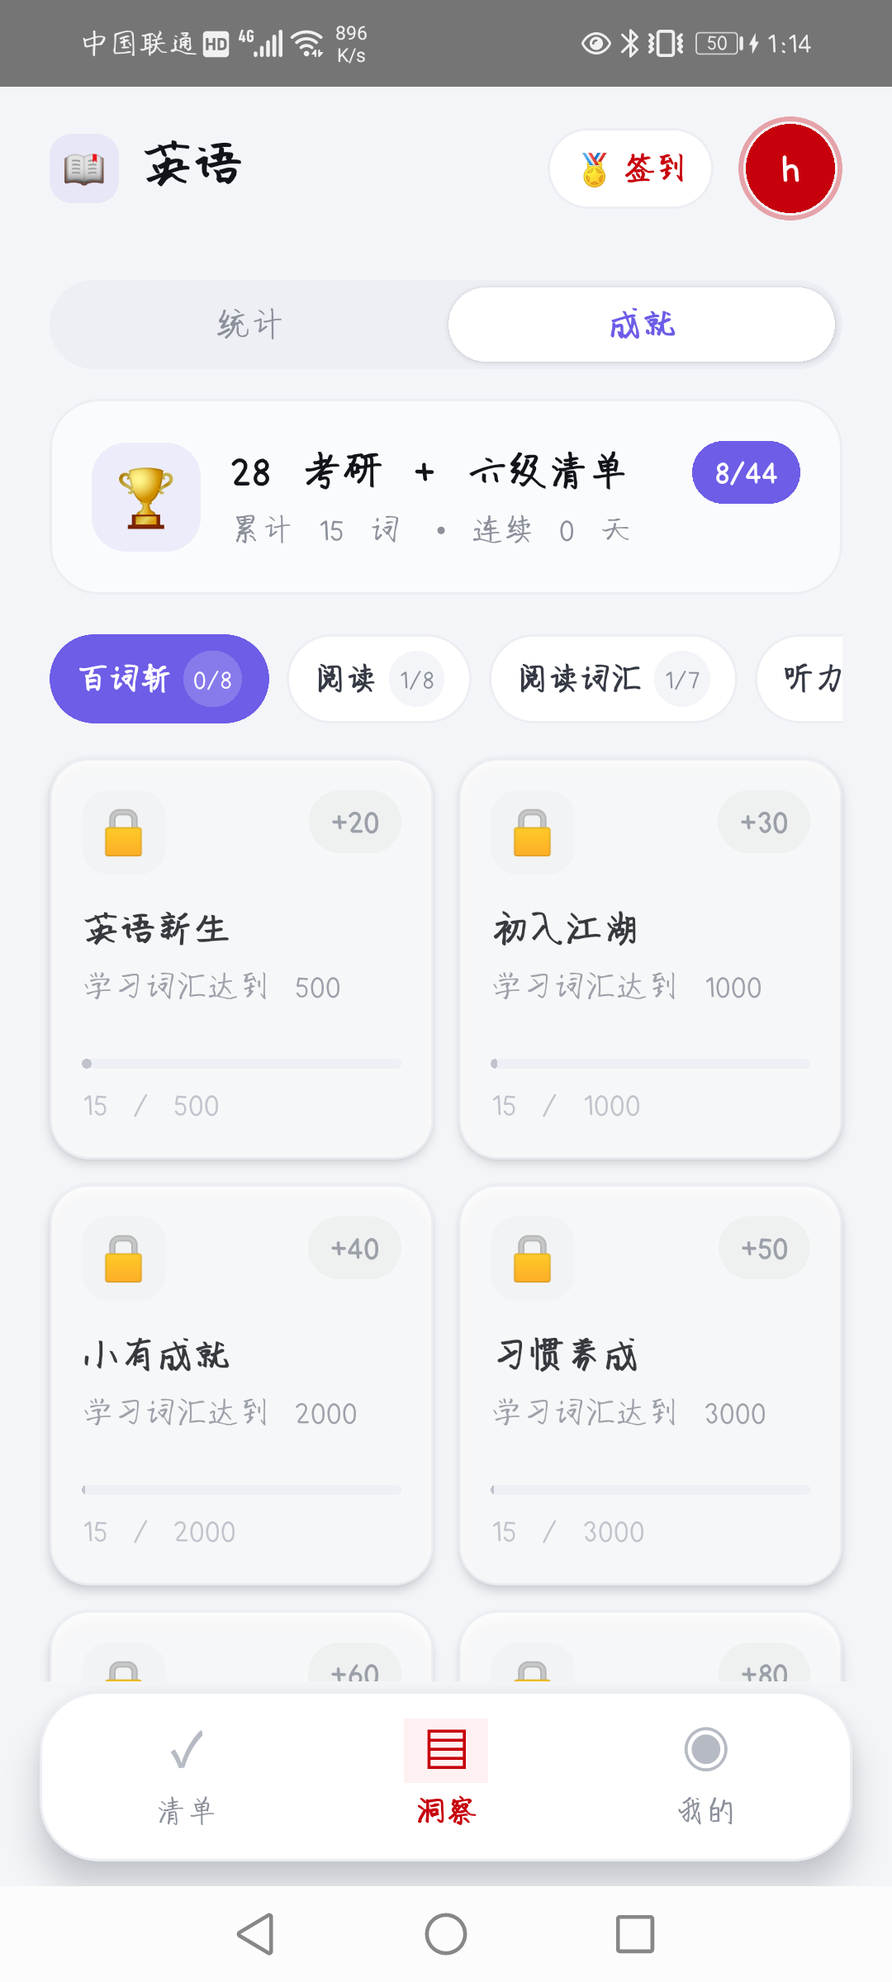
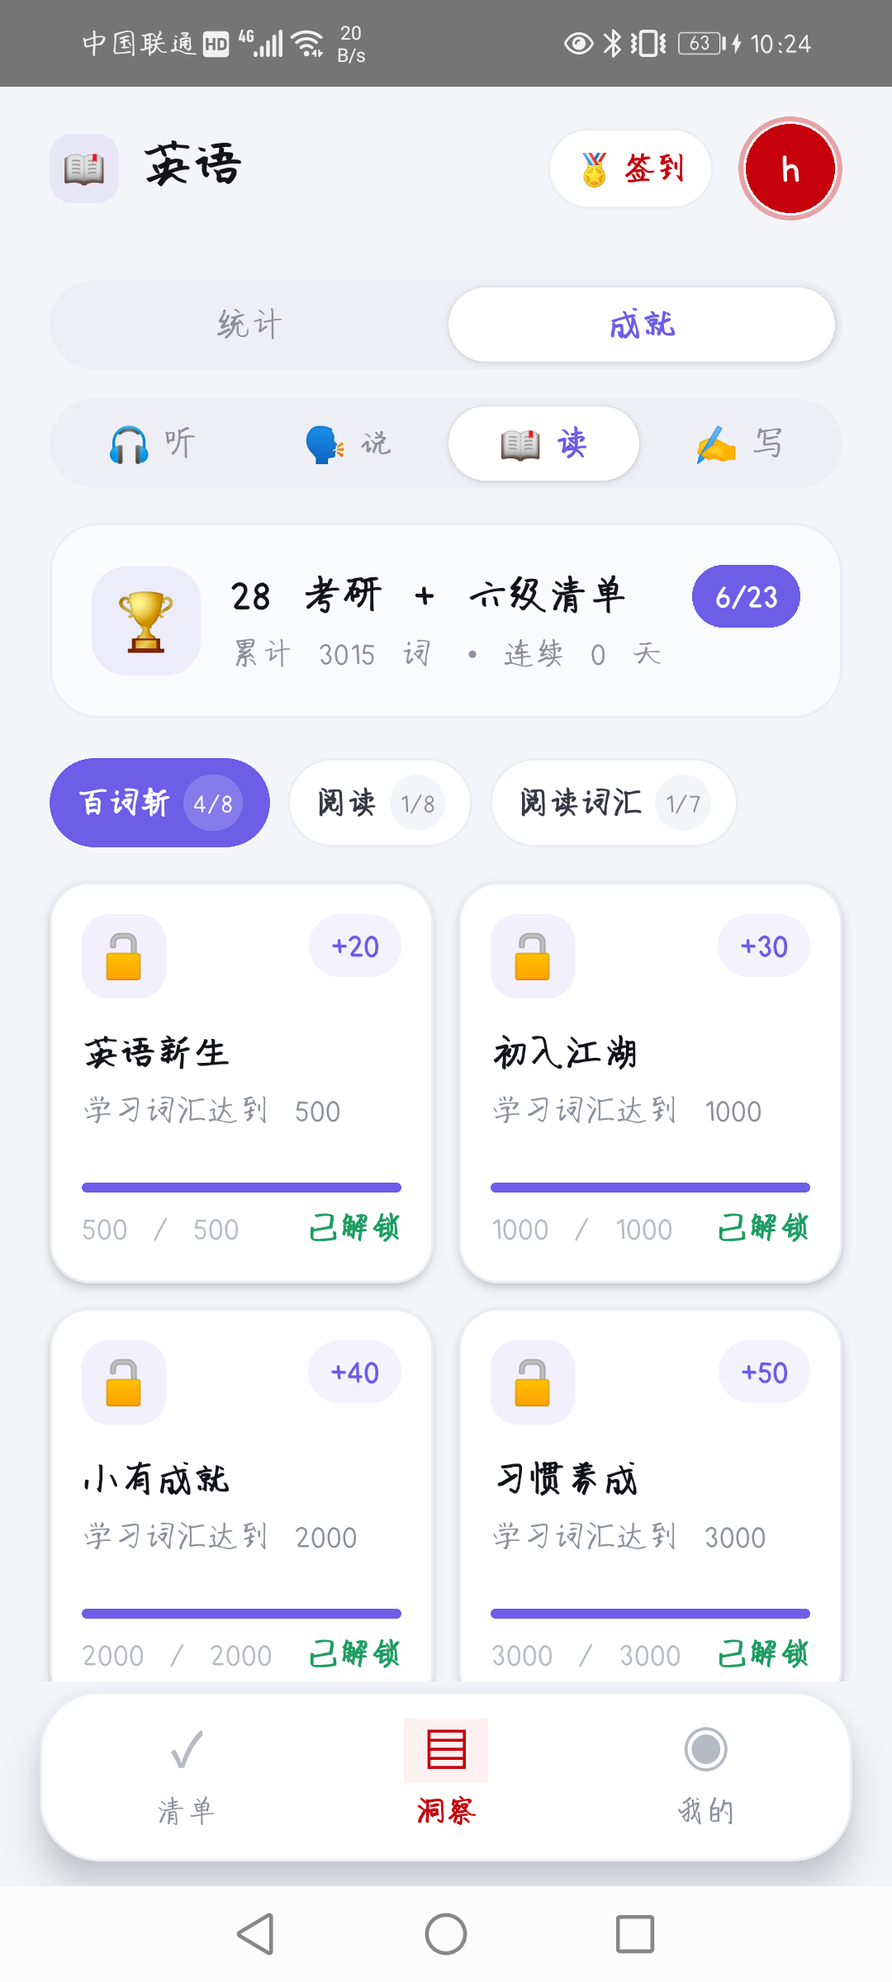
feat(english): 一级英语与听说读写二级结构
- 英语清单一级标题保留英语，二级改为听/说/读/写\n- 英语成就和进度管理回到洞察/成就\n- 每条清单独立进度与目标，目标可调\n- 清单页仅保留日常记录

diff --git a/app/src/model/englishChecklist.ts b/app/src/model/englishChecklist.ts
@@ -1,114 +1,118 @@
+export type EnglishSkill = 'listening' | 'speaking' | 'reading' | 'writing';
+
+export const ENGLISH_SKILLS: readonly { key: EnglishSkill; label: string; icon: string }[] = [
+  { key: 'listening', label: '听', icon: '🎧' },
+  { key: 'speaking', label: '说', icon: '🗣' },
+  { key: 'reading', label: '读', icon: '📖' },
+  { key: 'writing', label: '写', icon: '✍' }
+];
+
 export interface EnglishChecklistItem {
   id: string;
   name: string;
   desc: string;
   icon: string;
-  /** 目标值，单位由所属分组或条目决定 */
   need: number;
   points: number;
   unit?: string;
-  /** 初始进度（从旧清单迁移） */
   initial?: number;
 }
 
 export interface EnglishChecklistGroup {
   name: string;
+  skill: EnglishSkill;
   unit: string;
   initial: number;
   items: readonly EnglishChecklistItem[];
 }
 
+function group(
+  name: string,
+  skill: EnglishSkill,
+  unit: string,
+  initial: number,
+  items: readonly EnglishChecklistItem[]
+): EnglishChecklistGroup {
+  return { name, skill, unit, initial, items };
+}
+
 /**
  * 28 考研 + 六级清单（参考 english_01.md）。
- * 每个条目独立记录进度，不绑定固定字段或固定书目。
+ * 每个条目独立记录进度；分组只决定二级技能归属。
  */
 export const ENGLISH_CHECKLIST_GROUPS: readonly EnglishChecklistGroup[] = [
-  {
-    name: '百词斩',
-    unit: '词',
-    initial: 3000,
-    items: [
-      { id: 'words_500', name: '英语新生', desc: '学习词汇达到 500', icon: '🔓', need: 500, points: 20 },
-      { id: 'words_1000', name: '初入江湖', desc: '学习词汇达到 1000', icon: '🔓', need: 1000, points: 30 },
-      { id: 'words_2000', name: '小有成就', desc: '学习词汇达到 2000', icon: '🔓', need: 2000, points: 40 },
-      { id: 'words_3000', name: '习惯养成', desc: '学习词汇达到 3000', icon: '🔓', need: 3000, points: 50 },
-      { id: 'words_4000', name: '雷打不动', desc: '学习词汇达到 4000', icon: '🔓', need: 4000, points: 60 },
-      { id: 'words_5000', name: '单词大师', desc: '学习词汇达到 5000', icon: '🏅', need: 5000, points: 80 },
-      { id: 'words_6000', name: '单词宗师', desc: '学习词汇达到 6000', icon: '🏅', need: 6000, points: 100 },
-      { id: 'words_once', name: '过一遍', desc: '所有词汇学完一遍', icon: '1⃣', need: 6000, points: 120 }
-    ]
-  },
-  {
-    name: '阅读',
-    unit: '页',
-    initial: 10,
-    items: [
-      { id: 'read_10', name: '魔法世界', desc: "阅读累计达到 10 页", icon: '🔓', need: 10, points: 20 },
-      { id: 'read_50', name: '英语新生', desc: '阅读累计达到 50 页', icon: '🔓', need: 50, points: 25 },
-      { id: 'read_100', name: '初入江湖', desc: '阅读累计达到 100 页', icon: '🔓', need: 100, points: 30 },
-      { id: 'read_150', name: '小有成就', desc: '阅读累计达到 150 页', icon: '🔓', need: 150, points: 35 },
-      { id: 'read_200', name: '习惯养成', desc: '阅读累计达到 200 页', icon: '🔓', need: 200, points: 40 },
-      { id: 'read_250', name: '雷打不动', desc: '阅读累计达到 250 页', icon: '🔓', need: 250, points: 50 },
-      { id: 'read_300', name: '单词大师', desc: '阅读累计达到 300 页', icon: '🏅', need: 300, points: 60 },
-      { id: 'read_once', name: '读一遍', desc: '完成整本书第一遍', icon: '2⃣', need: 300, points: 80 }
-    ]
-  },
-  {
-    name: '阅读词汇',
-    unit: '词',
-    initial: 6156,
-    items: [
-      { id: 'read_vocab_6000', name: '破六千', desc: '阅读词汇量 ≥ 6000', icon: '🔓', need: 6000, points: 30 },
-      { id: 'read_vocab_6500', name: '六千五', desc: '阅读词汇量 ≥ 6500', icon: '🔓', need: 6500, points: 40 },
-      { id: 'read_vocab_7000', name: '七千关', desc: '阅读词汇量 ≥ 7000', icon: '🔓', need: 7000, points: 50 },
-      { id: 'read_vocab_7500', name: '七千五', desc: '阅读词汇量 ≥ 7500', icon: '🔓', need: 7500, points: 60 },
-      { id: 'read_vocab_8000', name: '八千斩', desc: '阅读词汇量 ≥ 8000', icon: '🏅', need: 8000, points: 80 },
-      { id: 'read_vocab_9000', name: '九千', desc: '阅读词汇量 ≥ 9000', icon: '👑', need: 9000, points: 100 },
-      { id: 'read_vocab_10000', name: '一万', desc: '阅读词汇量 ≥ 10000', icon: '💎', need: 10000, points: 120 }
-    ]
-  },
-  {
-    name: '听力词汇',
-    unit: '词',
-    initial: 5246,
-    items: [
-      { id: 'listen_vocab_4000', name: '四千', desc: '听力词汇量 ≥ 4000', icon: '🔓', need: 4000, points: 30 },
-      { id: 'listen_vocab_4500', name: '四千五', desc: '听力词汇量 ≥ 4500', icon: '🔓', need: 4500, points: 40 },
-      { id: 'listen_vocab_5000', name: '五千', desc: '听力词汇量 ≥ 5000', icon: '🔓', need: 5000, points: 50 },
-      { id: 'listen_vocab_5500', name: '五千五', desc: '听力词汇量 ≥ 5500', icon: '🔓', need: 5500, points: 60 },
-      { id: 'listen_vocab_6000', name: '六千', desc: '听力词汇量 ≥ 6000', icon: '🏅', need: 6000, points: 80 },
-      { id: 'listen_vocab_7000', name: '七千', desc: '听力词汇量 ≥ 7000', icon: '👑', need: 7000, points: 100 },
-      { id: 'listen_vocab_8000', name: '八千', desc: '听力词汇量 ≥ 8000', icon: '💎', need: 8000, points: 120 }
-    ]
-  },
-  {
-    name: '听力',
-    unit: '篇',
-    initial: 0,
-    items: [
-      { id: 'voa_1', name: '累计一章', desc: '每日英语听力 VOA 累计 1 章', icon: '🎧', need: 1, points: 20, initial: 2, unit: '章' },
-      { id: 'voa_5', name: '累计五章', desc: '每日英语听力 VOA 累计 5 章', icon: '🎧', need: 5, points: 40, initial: 2, unit: '章' },
-      { id: 'voa_10', name: '累计十章', desc: '每日英语听力 VOA 累计 10 章', icon: '🎧', need: 10, points: 60, initial: 2, unit: '章' },
-      { id: 'voa_15', name: '累计十五章', desc: '每日英语听力 VOA 累计 15 章', icon: '🎧', need: 15, points: 80, initial: 2, unit: '章' },
-      { id: 'cet6_1', name: '做完一篇', desc: '做完一篇六级听力', icon: '🎧', need: 1, points: 20 },
-      { id: 'cet6_3', name: '做完三篇', desc: '做完三篇六级听力', icon: '🎧', need: 3, points: 40 },
-      { id: 'cet6_5', name: '做完五篇', desc: '做完五篇六级听力', icon: '🎧', need: 5, points: 60 },
-      { id: 'intensive_1', name: '精听一篇', desc: '精听一篇六级听力', icon: '🎧', need: 1, points: 20 },
-      { id: 'intensive_3', name: '精听三篇', desc: '精听三篇六级听力', icon: '🎧', need: 3, points: 40 },
-      { id: 'intensive_5', name: '精听五篇', desc: '精听五篇六级听力', icon: '🎧', need: 5, points: 60 }
-    ]
-  },
-  {
-    name: '观影',
-    unit: '部',
-    initial: 4,
-    items: [
-      { id: 'movie_1', name: '累计看完 1 部', desc: '累计看完 1 部英文电影', icon: '🎬', need: 1, points: 20 },
-      { id: 'movie_3', name: '累计看完 3 部', desc: '累计看完 3 部英文电影', icon: '🎬', need: 3, points: 40 },
-      { id: 'movie_5', name: '累计看完 5 部', desc: '累计看完 5 部英文电影', icon: '🎬', need: 5, points: 60 },
-      { id: 'movie_10', name: '累计看完 10 部', desc: '累计看完 10 部英文电影', icon: '🎬', need: 10, points: 100 }
-    ]
-  }
+  group('百词斩', 'reading', '词', 3000, [
+    { id: 'words_500', name: '英语新生', desc: '学习词汇达到 500', icon: '🔓', need: 500, points: 20 },
+    { id: 'words_1000', name: '初入江湖', desc: '学习词汇达到 1000', icon: '🔓', need: 1000, points: 30 },
+    { id: 'words_2000', name: '小有成就', desc: '学习词汇达到 2000', icon: '🔓', need: 2000, points: 40 },
+    { id: 'words_3000', name: '习惯养成', desc: '学习词汇达到 3000', icon: '🔓', need: 3000, points: 50 },
+    { id: 'words_4000', name: '雷打不动', desc: '学习词汇达到 4000', icon: '🔓', need: 4000, points: 60 },
+    { id: 'words_5000', name: '单词大师', desc: '学习词汇达到 5000', icon: '🏅', need: 5000, points: 80 },
+    { id: 'words_6000', name: '单词宗师', desc: '学习词汇达到 6000', icon: '🏅', need: 6000, points: 100 },
+    { id: 'words_once', name: '过一遍', desc: '所有词汇学完一遍', icon: '1⃣', need: 6000, points: 120 }
+  ]),
+  group('阅读', 'reading', '页', 10, [
+    { id: 'read_10', name: '魔法世界', desc: '阅读累计达到 10 页', icon: '🔓', need: 10, points: 20 },
+    { id: 'read_50', name: '英语新生', desc: '阅读累计达到 50 页', icon: '🔓', need: 50, points: 25 },
+    { id: 'read_100', name: '初入江湖', desc: '阅读累计达到 100 页', icon: '🔓', need: 100, points: 30 },
+    { id: 'read_150', name: '小有成就', desc: '阅读累计达到 150 页', icon: '🔓', need: 150, points: 35 },
+    { id: 'read_200', name: '习惯养成', desc: '阅读累计达到 200 页', icon: '🔓', need: 200, points: 40 },
+    { id: 'read_250', name: '雷打不动', desc: '阅读累计达到 250 页', icon: '🔓', need: 250, points: 50 },
+    { id: 'read_300', name: '单词大师', desc: '阅读累计达到 300 页', icon: '🏅', need: 300, points: 60 },
+    { id: 'read_once', name: '读一遍', desc: '完成整本书第一遍', icon: '2⃣', need: 300, points: 80 }
+  ]),
+  group('阅读词汇', 'reading', '词', 6156, [
+    { id: 'read_vocab_6000', name: '破六千', desc: '阅读词汇量 ≥ 6000', icon: '🔓', need: 6000, points: 30 },
+    { id: 'read_vocab_6500', name: '六千五', desc: '阅读词汇量 ≥ 6500', icon: '🔓', need: 6500, points: 40 },
+    { id: 'read_vocab_7000', name: '七千关', desc: '阅读词汇量 ≥ 7000', icon: '🔓', need: 7000, points: 50 },
+    { id: 'read_vocab_7500', name: '七千五', desc: '阅读词汇量 ≥ 7500', icon: '🔓', need: 7500, points: 60 },
+    { id: 'read_vocab_8000', name: '八千斩', desc: '阅读词汇量 ≥ 8000', icon: '🏅', need: 8000, points: 80 },
+    { id: 'read_vocab_9000', name: '九千', desc: '阅读词汇量 ≥ 9000', icon: '👑', need: 9000, points: 100 },
+    { id: 'read_vocab_10000', name: '一万', desc: '阅读词汇量 ≥ 10000', icon: '💎', need: 10000, points: 120 }
+  ]),
+  group('听力词汇', 'listening', '词', 5246, [
+    { id: 'listen_vocab_4000', name: '四千', desc: '听力词汇量 ≥ 4000', icon: '🔓', need: 4000, points: 30 },
+    { id: 'listen_vocab_4500', name: '四千五', desc: '听力词汇量 ≥ 4500', icon: '🔓', need: 4500, points: 40 },
+    { id: 'listen_vocab_5000', name: '五千', desc: '听力词汇量 ≥ 5000', icon: '🔓', need: 5000, points: 50 },
+    { id: 'listen_vocab_5500', name: '五千五', desc: '听力词汇量 ≥ 5500', icon: '🔓', need: 5500, points: 60 },
+    { id: 'listen_vocab_6000', name: '六千', desc: '听力词汇量 ≥ 6000', icon: '🏅', need: 6000, points: 80 },
+    { id: 'listen_vocab_7000', name: '七千', desc: '听力词汇量 ≥ 7000', icon: '👑', need: 7000, points: 100 },
+    { id: 'listen_vocab_8000', name: '八千', desc: '听力词汇量 ≥ 8000', icon: '💎', need: 8000, points: 120 }
+  ]),
+  group('听力', 'listening', '篇', 0, [
+    { id: 'voa_1', name: '累计一章', desc: '每日英语听力 VOA 累计 1 章', icon: '🎧', need: 1, points: 20, initial: 2, unit: '章' },
+    { id: 'voa_5', name: '累计五章', desc: '每日英语听力 VOA 累计 5 章', icon: '🎧', need: 5, points: 40, initial: 2, unit: '章' },
+    { id: 'voa_10', name: '累计十章', desc: '每日英语听力 VOA 累计 10 章', icon: '🎧', need: 10, points: 60, initial: 2, unit: '章' },
+    { id: 'voa_15', name: '累计十五章', desc: '每日英语听力 VOA 累计 15 章', icon: '🎧', need: 15, points: 80, initial: 2, unit: '章' },
+    { id: 'cet6_1', name: '做完一篇', desc: '做完一篇六级听力', icon: '🎧', need: 1, points: 20 },
+    { id: 'cet6_3', name: '做完三篇', desc: '做完三篇六级听力', icon: '🎧', need: 3, points: 40 },
+    { id: 'cet6_5', name: '做完五篇', desc: '做完五篇六级听力', icon: '🎧', need: 5, points: 60 },
+    { id: 'intensive_1', name: '精听一篇', desc: '精听一篇六级听力', icon: '🎧', need: 1, points: 20 },
+    { id: 'intensive_3', name: '精听三篇', desc: '精听三篇六级听力', icon: '🎧', need: 3, points: 40 },
+    { id: 'intensive_5', name: '精听五篇', desc: '精听五篇六级听力', icon: '🎧', need: 5, points: 60 }
+  ]),
+  group('观影', 'listening', '部', 4, [
+    { id: 'movie_1', name: '累计看完 1 部', desc: '累计看完 1 部英文电影', icon: '🎬', need: 1, points: 20 },
+    { id: 'movie_3', name: '累计看完 3 部', desc: '累计看完 3 部英文电影', icon: '🎬', need: 3, points: 40 },
+    { id: 'movie_5', name: '累计看完 5 部', desc: '累计看完 5 部英文电影', icon: '🎬', need: 5, points: 60 },
+    { id: 'movie_10', name: '累计看完 10 部', desc: '累计看完 10 部英文电影', icon: '🎬', need: 10, points: 100 }
+  ]),
+  group('口语', 'speaking', '次', 0, [
+    { id: 'speak_1', name: '开口一次', desc: '完成 1 次口语练习', icon: '🗣', need: 1, points: 20 },
+    { id: 'speak_5', name: '开口五次', desc: '完成 5 次口语练习', icon: '🗣', need: 5, points: 40 },
+    { id: 'speak_10', name: '开口十次', desc: '完成 10 次口语练习', icon: '🗣', need: 10, points: 60 },
+    { id: 'repeat_1', name: '跟读一篇', desc: '完成 1 篇跟读', icon: '🔁', need: 1, points: 20 },
+    { id: 'repeat_3', name: '跟读三篇', desc: '完成 3 篇跟读', icon: '🔁', need: 3, points: 40 },
+    { id: 'repeat_5', name: '跟读五篇', desc: '完成 5 篇跟读', icon: '🔁', need: 5, points: 60 }
+  ]),
+  group('写作', 'writing', '篇', 0, [
+    { id: 'write_1', name: '写一篇', desc: '完成 1 篇英语写作', icon: '✍', need: 1, points: 20 },
+    { id: 'write_3', name: '写三篇', desc: '完成 3 篇英语写作', icon: '✍', need: 3, points: 40 },
+    { id: 'write_5', name: '写五篇', desc: '完成 5 篇英语写作', icon: '✍', need: 5, points: 60 },
+    { id: 'rewrite_1', name: '仿写一篇', desc: '完成 1 篇仿写', icon: '📝', need: 1, points: 20 },
+    { id: 'rewrite_3', name: '仿写三篇', desc: '完成 3 篇仿写', icon: '📝', need: 3, points: 40 },
+    { id: 'rewrite_5', name: '仿写五篇', desc: '完成 5 篇仿写', icon: '📝', need: 5, points: 60 }
+  ])
 ];
 
 export const ENGLISH_ITEM_DEFAULTS: Record<string, number> = {};

diff --git a/app/src/features/english/EnglishPanel.tsx b/app/src/features/english/EnglishPanel.tsx
@@ -3,7 +3,7 @@ import { Pressable, StyleSheet, TextInput, View } from 'react-native';
 import { DEFAULT_ENGLISH, loadEnglish, saveEnglish, type EnglishData } from '../../check/localData';
 import { LineChart } from '../../components/LineChart';
 import { englishStreak, englishTotal } from '../../model/english';
-import { ENGLISH_CHECKLIST_GROUPS, ENGLISH_ITEM_DEFAULTS, ENGLISH_ITEM_TARGETS } from '../../model/englishChecklist';
+import { ENGLISH_CHECKLIST_GROUPS, ENGLISH_ITEM_DEFAULTS, ENGLISH_ITEM_TARGETS, ENGLISH_SKILLS, type EnglishSkill } from '../../model/englishChecklist';
 import { businessToday } from '../../model/waterGoal';
 import { formatMonthDay } from '../../shared/format';
 import { AchievementGrid, AchievementGroupNav, type AchievementItem } from '../../ui/AchievementGrid';
@@ -15,6 +15,7 @@ import {
   Pill,
   ProgressBar,
   SectionHeader,
+  Segmented,
   StatTile,
   Surface,
   UIText
@@ -40,7 +41,10 @@ export function EnglishPanel({ tab }: { tab: 'today' | 'stats' | 'achievements' 
   const [target, setTarget] = useState('20');
   const [notice, setNotice] = useState('');
   const [noticeTone, setNoticeTone] = useState<'warning' | 'success'>('warning');
-  const [activeGroup, setActiveGroup] = useState(ENGLISH_CHECKLIST_GROUPS[0]?.name ?? '百词斩');
+  const [skill, setSkill] = useState<EnglishSkill>('reading');
+  const [activeGroup, setActiveGroup] = useState(
+    ENGLISH_CHECKLIST_GROUPS.find((group) => group.skill === 'reading')?.name ?? '百词斩'
+  );
   const [draft, setDraft] = useState<Record<string, string>>({});
   const [targetDraft, setTargetDraft] = useState<Record<string, string>>({});
 
@@ -74,7 +78,7 @@ export function EnglishPanel({ tab }: { tab: 'today' | 'stats' | 'achievements' 
   const streak = englishStreak(data, today, addDays);
   const ratio = Math.min(1, todayWords / Math.max(1, data.target));
 
-  const groups = useMemo(
+  const allGroups = useMemo(
     () =>
       ENGLISH_CHECKLIST_GROUPS.map((group) => {
         const items: AchievementItem[] = group.items.map((definition) => {
@@ -91,16 +95,35 @@ export function EnglishPanel({ tab }: { tab: 'today' | 'stats' | 'achievements' 
             need
           };
         });
-        return { name: group.name, items };
+        return { name: group.name, skill: group.skill, items };
       }),
     [data]
   );
 
+  const groups = allGroups.filter((group) => group.skill === skill);
   const selectedGroup = groups.find((group) => group.name === activeGroup) ?? groups[0];
   const selectedDefinitionGroup =
-    ENGLISH_CHECKLIST_GROUPS.find((group) => group.name === activeGroup) ?? ENGLISH_CHECKLIST_GROUPS[0];
+    ENGLISH_CHECKLIST_GROUPS.find((group) => group.name === activeGroup && group.skill === skill) ??
+    ENGLISH_CHECKLIST_GROUPS.find((group) => group.skill === skill) ??
+    ENGLISH_CHECKLIST_GROUPS[0];
   const unlockedCount = groups.reduce((sum, group) => sum + group.items.filter((item) => item.unlocked).length, 0);
   const achievementCount = groups.reduce((sum, group) => sum + group.items.length, 0);
+
+  const changeSkill = (next: EnglishSkill): void => {
+    setSkill(next);
+    setActiveGroup(ENGLISH_CHECKLIST_GROUPS.find((group) => group.skill === next)?.name ?? '百词斩');
+  };
+
+  const skillNav = (
+    <Segmented
+      options={ENGLISH_SKILLS.map((item) => ({ key: item.key, label: item.label, icon: item.icon }))}
+      value={skill}
+      onChange={(key) => changeSkill(key as EnglishSkill)}
+      accent={english.main}
+      style={{ marginBottom: 14 }}
+      compact
+    />
+  );
 
   const addWords = (count: number): void => {
     if (!(count > 0 && count <= 500)) {
@@ -216,6 +239,7 @@ export function EnglishPanel({ tab }: { tab: 'today' | 'stats' | 'achievements' 
   if (tab === 'achievements') {
     return (
       <PageScroll>
+        {skillNav}
         <Surface tone="soft" style={{ marginBottom: 16 }}>
           <View style={{ flexDirection: 'row', alignItems: 'center', gap: 12 }}>
             <IconBadge icon="🏆" accent={english.main} size={44} />
@@ -230,6 +254,7 @@ export function EnglishPanel({ tab }: { tab: 'today' | 'stats' | 'achievements' 
         </Surface>
         <AchievementGroupNav groups={groups} value={activeGroup} onChange={setActiveGroup} accent={english.main} />
         <AchievementGrid groups={selectedGroup ? [selectedGroup] : []} accent={english.main} showHeader={false} />
+        {progressEditor}
       </PageScroll>
     );
   }
@@ -237,6 +262,7 @@ export function EnglishPanel({ tab }: { tab: 'today' | 'stats' | 'achievements' 
   if (tab === 'stats') {
     return (
       <PageScroll>
+        {skillNav}
         <View style={{ flexDirection: 'row', gap: 8 }}>
           <StatTile value={total} unit="词" label="累计词数" accent={english.deep} icon="📚" />
           <StatTile value={streak} unit="天" label="连续打卡" accent={english.deep} icon="🔥" />
@@ -292,6 +318,7 @@ export function EnglishPanel({ tab }: { tab: 'today' | 'stats' | 'achievements' 
 
   return (
     <PageScroll>
+      {skillNav}
       <Surface padding={0} radiusValue={radius.xl} style={{ overflow: 'hidden' }}>
         <View style={{ backgroundColor: english.wash, padding: 18 }}>
           <View style={{ flexDirection: 'row', alignItems: 'center', justifyContent: 'space-between' }}>
@@ -409,8 +436,6 @@ export function EnglishPanel({ tab }: { tab: 'today' | 'stats' | 'achievements' 
         </UIText>
       </Surface>
 
-      {progressEditor}
-
       <SectionHeader title="清单概览" caption="28 考研 + 六级" style={{ marginTop: 22 }} />
       <Surface tone="soft">
         <View style={{ flexDirection: 'row', alignItems: 'center', gap: 12 }}>
@@ -418,7 +443,7 @@ export function EnglishPanel({ tab }: { tab: 'today' | 'stats' | 'achievements' 
           <View style={{ flex: 1 }}>
             <UIText variant="bodyStrong">已解锁 {unlockedCount} / {achievementCount} 项</UIText>
             <UIText variant="caption" tone="muted" style={{ marginTop: 3 }}>
-              每条清单独立记录，进度可在上方「进度管理」中维护
+              每条清单独立记录，进度可在「洞察 / 成就」中维护
             </UIText>
           </View>
         </View>

diff --git a/app/src/screens/CheckShell.tsx b/app/src/screens/CheckShell.tsx
@@ -125,7 +125,8 @@ export function CheckShell({
             accent={palette.brand}
             style={styles.category}
           />
-                    <ScrollView
+          {category === 'health' ? (
+          <ScrollView
             horizontal
             showsHorizontalScrollIndicator={false}
             contentContainerStyle={styles.listRow}
@@ -159,6 +160,7 @@ export function CheckShell({
               );
             })}
           </ScrollView>
+          ) : null}
         </>
       ) : null}
 

diff --git a/README.md b/README.md
@@ -13,7 +13,7 @@
 - **饮水**：按身体档案计算每日目标，支持杯子 / 瓶装水 / 自定义单位，记录可撤销。
 - **服药**：按早 / 中 / 晚 / 睡前四个时段管理药物，支持补打与撤回。
 - **运动**：记录步行、骑行、跑步，按周 / 月 / 季度看趋势；成就页用 nav 栏切换步行 / 骑行 / 配速 / 距离 / 连击分组。
-- **英语**：28 考研 + 六级清单，分「百词斩 / 阅读 / 阅读词汇 / 听力词汇 / 听力 / 观影」成就；每条清单独立记录进度和目标，目标可逐条调整，不再绑定固定字段或固定书目。
+- **英语**：一级「英语」，二级「听 / 说 / 读 / 写」；28 考研 + 六级清单按技能归组，每条清单独立记录进度和目标，目标可逐条调整。
 - **数据洞察**：统计 / 成就二级页面，按清单记忆浏览位置。
 - **签到与头像框**：积分、连续签到、像素头像框兑换与装备。
 - **系统与云端**：实时查看 API / RDS / Redis / 华为账号 / MaaS 健康状态，以及 CodeArts 五步开发闭环。
